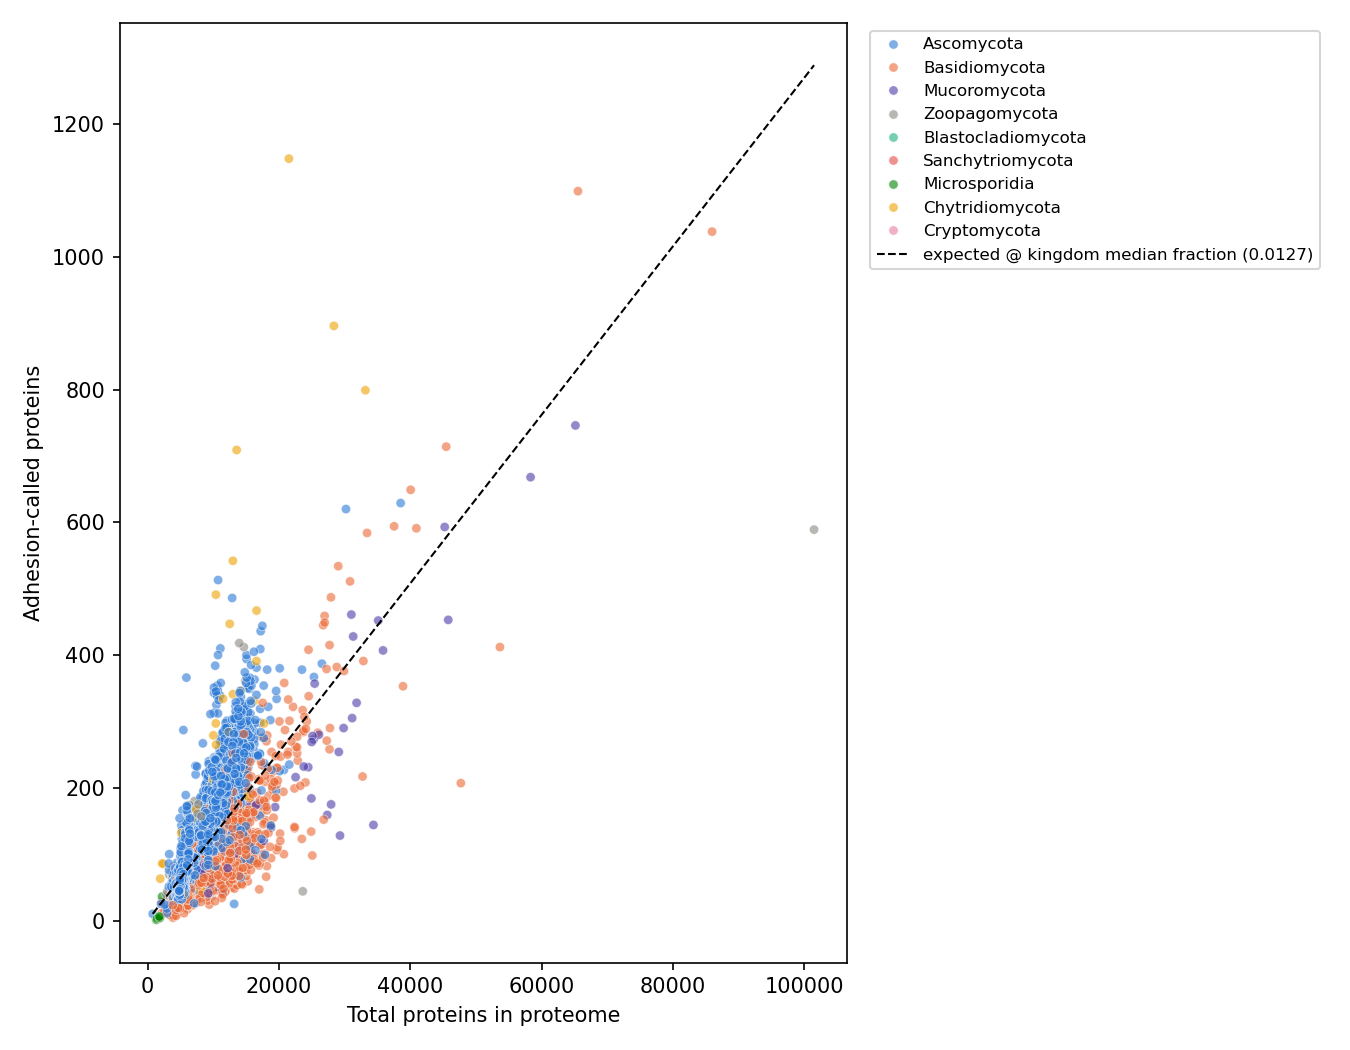
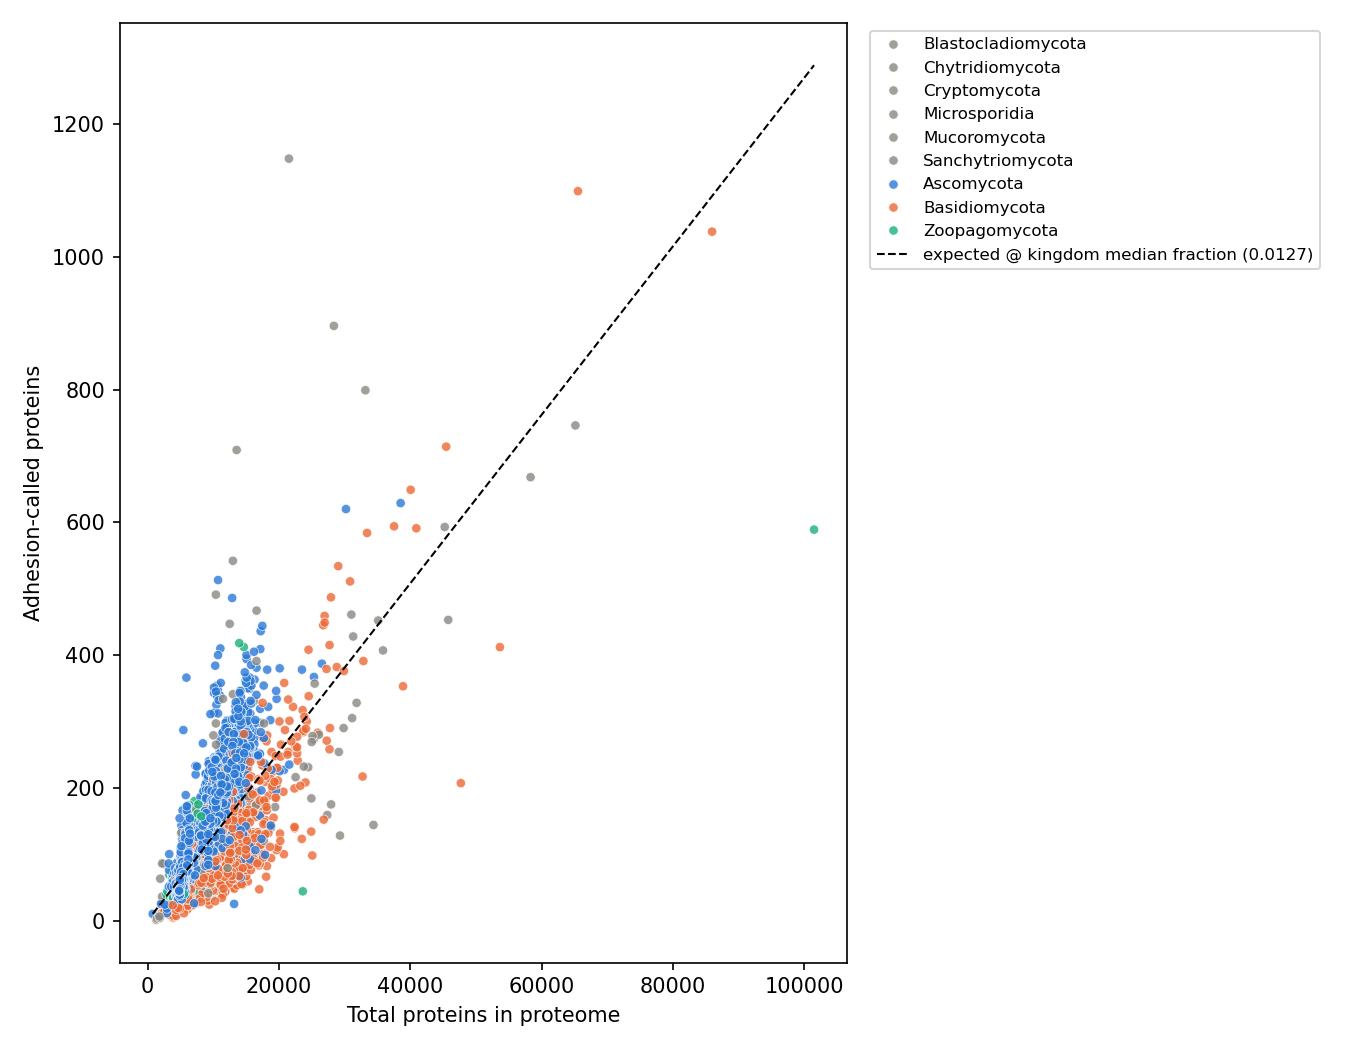
Fix scatter plot color legibility and add per-phylum facet view
The overview scatter used 8 categorical colors in a dense, overlapping
"all-pairs" layout, but the dataviz palette's own validation only clears
colorblind-safety/contrast floors for the first 3 slots in that context
- past 3, any color pairing can fail those floors, which is why the plot
read as visually muddy. Cap the overview scatter at the 3 largest phyla
by species count (validated all-pairs-safe colors), fold the rest into
muted gray plotted underneath so the highlights stay legible on top, and
bump point opacity from 0.6 to 0.8 for more vivid, readable markers.

Add scatter_proteome_vs_adhesion_by_phylum: a 3x3 small-multiples facet
grid, one panel per phylum with its own independent axis scale (so a
phylum with a much smaller/larger proteome-size range isn't squashed by
another's scale) and the same kingdom-median reference line repeated in
each panel for direct comparison - this is how the dataviz skill
prescribes showing >3-way categorical identity in a scatter context.

diff --git a/analysis/kingdom_survey/figures.py b/analysis/kingdom_survey/figures.py
@@ -10,11 +10,20 @@ palette (see .superpowers dataviz skill, references/palette.md):
 - Full-N groups use categorical slot 1 (blue); small-N groups use the
   muted axis/label gray, so "insufficient sample size" reads as a
   de-emphasized/warning-like state rather than just another hue.
-- The scatter plot's phylum coloring uses the fixed 8-slot categorical
-  order (assigned deterministically, never cycled/re-ordered per call);
-  a scatter plot is an "all-pairs" context under the skill's validator,
-  so any phylum beyond the first 8 folds into the muted gray "Other"
-  bucket rather than reusing/cycling hues.
+- The overview scatter plot is an "all-pairs" context (every point can
+  sit next to every other) — per the palette's own validation notes,
+  only the first THREE categorical slots clear the colorblind-safety
+  and contrast floors together in an all-pairs layout; a naive 8-slot
+  assignment (the previous approach) puts pairs on screen that fail
+  those floors, which is why the plot read as visually muddy. So the
+  scatter highlights only the 3 largest phyla by species count (the
+  ones that dominate the point cloud and where "which phylum is this"
+  matters most) and folds every other phylum into the muted gray
+  "Other" bucket, plotted underneath so the 3 highlighted colors stay
+  legible on top. Full 9-way phylum identity is instead shown via
+  `scatter_proteome_vs_adhesion_by_phylum`'s small-multiples facet grid
+  — one panel per phylum, a single consistent color, identity
+  established spatially (by panel) rather than by hue.
 """
 
 from pathlib import Path
@@ -91,28 +100,48 @@ def boxplot_by_rank(
     plt.close(fig)
 
 
-def _phylum_color_map(phyla: list) -> dict:
-    """Deterministic, fixed-order categorical color assignment.
+# Only the first 3 categorical slots clear the colorblind-safety and
+# contrast floors together in an "all-pairs" layout (see palette.md);
+# past 3, fold to "Other" or facet instead of cycling more hues in.
+_ALL_PAIRS_SAFE_SLOTS = 3
+_SCATTER_ALPHA = 0.8
 
-    A scatter plot is an "all-pairs" context (every point can sit next to
-    every other), so only the palette's first 8 validated categorical
-    slots are used; any phylum beyond that folds into a shared muted-gray
-    "Other" bucket instead of cycling colors.
+
+def _phylum_color_map(phylum_counts: "pd.Series") -> dict:
+    """Deterministic categorical color assignment, capped for an all-pairs
+    scatter: only the _ALL_PAIRS_SAFE_SLOTS largest-by-count phyla get a
+    distinct hue (in count-descending order); everything else shares the
+    muted "Other" gray. `phylum_counts` is a phylum -> species-count
+    Series computed once from the full dataset, so the assignment doesn't
+    repaint if a caller later filters a subset.
+
+    Returns an ordered dict with "Other" phyla first and highlighted
+    phyla last, so passing `hue_order=list(color_map)` to seaborn draws
+    the muted background first and the highlighted colors on top —
+    keeping them legible instead of buried under denser gray clusters.
     """
-    ordered_phyla = sorted(phyla)
-    color_map = {}
-    for i, p in enumerate(ordered_phyla):
-        color_map[p] = _CATEGORICAL_ORDER[i] if i < len(_CATEGORICAL_ORDER) else _OTHER_COLOR
+    ranked = phylum_counts.sort_values(ascending=False)
+    highlighted = list(ranked.index[:_ALL_PAIRS_SAFE_SLOTS])
+    other = list(ranked.index[_ALL_PAIRS_SAFE_SLOTS:])
+
+    color_map = dict.fromkeys(sorted(other), _OTHER_COLOR)
+    for i, p in enumerate(highlighted):
+        color_map[p] = _CATEGORICAL_ORDER[i]
     return color_map
 
 
 def scatter_proteome_vs_adhesion(df: pd.DataFrame, out_path: Path) -> None:
     """Scatter of total_proteins vs adhesion_count, colored by phylum, with a
     reference line for 'expected count under the kingdom-wide median
-    fraction' — separates genome-size effects from real enrichment."""
+    fraction' — separates genome-size effects from real enrichment.
+
+    Only the 3 largest phyla by species count get a distinct color (the
+    all-pairs-safe cap); the rest are muted gray "Other", plotted first
+    so the highlighted colors stay legible on top.
+    """
     sub = df[df["phylum"].notna()].copy()
     kingdom_median_fraction = sub["adhesion_fraction"].median()
-    color_map = _phylum_color_map(sub["phylum"].unique())
+    color_map = _phylum_color_map(sub["phylum"].value_counts())
 
     fig, ax = plt.subplots(figsize=(9, 7))
     sns.scatterplot(
@@ -120,8 +149,9 @@ def scatter_proteome_vs_adhesion(df: pd.DataFrame, out_path: Path) -> None:
         x="total_proteins",
         y="adhesion_count",
         hue="phylum",
+        hue_order=list(color_map),
         palette=color_map,
-        alpha=0.6,
+        alpha=_SCATTER_ALPHA,
         s=20,
         ax=ax,
         legend="brief",
@@ -138,6 +168,62 @@ def scatter_proteome_vs_adhesion(df: pd.DataFrame, out_path: Path) -> None:
     ax.set_xlabel("Total proteins in proteome")
     ax.set_ylabel("Adhesion-called proteins")
     ax.legend(bbox_to_anchor=(1.02, 1), loc="upper left", fontsize=8)
+    fig.tight_layout()
+    fig.savefig(out_path, dpi=150)
+    plt.close(fig)
+
+
+def scatter_proteome_vs_adhesion_by_phylum(
+    df: pd.DataFrame, out_path: Path, ncols: int = 3, nrows: int = 3
+) -> None:
+    """Small-multiples version of scatter_proteome_vs_adhesion: one panel
+    per phylum (up to ncols*nrows, ranked by species count), each with its
+    own independent x/y scale so a phylum with a much smaller/larger
+    proteome-size range isn't squashed by another phylum's scale. Every
+    panel uses the same single color (identity is established by the
+    panel title, not by hue) and repeats the kingdom-median reference
+    line so each phylum's position relative to the kingdom-wide
+    expectation is directly comparable across panels.
+    """
+    sub = df[df["phylum"].notna()].copy()
+    kingdom_median_fraction = sub["adhesion_fraction"].median()
+    counts = sub["phylum"].value_counts()
+    panels = list(counts.sort_values(ascending=False).index[: ncols * nrows])
+
+    fig, axes = plt.subplots(nrows, ncols, figsize=(4.2 * ncols, 3.6 * nrows))
+    axes = axes.flatten()
+
+    for i, ax in enumerate(axes):
+        if i >= len(panels):
+            ax.set_visible(False)
+            continue
+        phylum = panels[i]
+        pdata = sub[sub["phylum"] == phylum]
+        ax.scatter(
+            pdata["total_proteins"],
+            pdata["adhesion_count"],
+            color=_FULL_COLOR,
+            alpha=_SCATTER_ALPHA,
+            s=20,
+        )
+        x_range = [pdata["total_proteins"].min(), pdata["total_proteins"].max()]
+        ax.plot(
+            x_range,
+            [x * kingdom_median_fraction for x in x_range],
+            color="black",
+            linestyle="--",
+            linewidth=1,
+        )
+        ax.set_title(f"{phylum} (n={counts[phylum]})", fontsize=10)
+        ax.tick_params(labelsize=8)
+
+    fig.supxlabel("Total proteins in proteome")
+    fig.supylabel("Adhesion-called proteins")
+    fig.suptitle(
+        f"Proteome size vs. adhesion count by phylum (dashed line = kingdom "
+        f"median fraction {kingdom_median_fraction:.4f})",
+        fontsize=11,
+    )
     fig.tight_layout()
     fig.savefig(out_path, dpi=150)
     plt.close(fig)

diff --git a/tests/kingdom_survey/test_figures.py b/tests/kingdom_survey/test_figures.py
@@ -8,6 +8,7 @@ from figures import (
     probability_boxplot_by_rank,
     ranked_summary_table,
     scatter_proteome_vs_adhesion,
+    scatter_proteome_vs_adhesion_by_phylum,
 )
 from stats import aggregate_summary
 
@@ -57,3 +58,54 @@ def test_ranked_summary_table_is_markdown():
     md = ranked_summary_table(summary, "phylum")
     assert "PhylumX" in md
     assert "|" in md
+
+
+def _many_phyla_df(n_phyla=10):
+    rows = []
+    for p in range(n_phyla):
+        # descending species counts so phylum ranking is unambiguous
+        for i in range(n_phyla - p):
+            rows.append(
+                {
+                    "phylum": f"Phylum{p}",
+                    "adhesion_fraction": 0.1 + 0.01 * i,
+                    "adhesion_count": 10 + i,
+                    "total_proteins": 1000 + 50 * i,
+                    "mean_adhesion_prob": 0.6 + 0.01 * i,
+                }
+            )
+    return pd.DataFrame(rows)
+
+
+def test_scatter_by_phylum_creates_file(tmp_path):
+    df = _sample_df()
+    out = tmp_path / "facet.png"
+    scatter_proteome_vs_adhesion_by_phylum(df, out)
+    assert out.exists()
+    assert out.stat().st_size > 0
+
+
+def test_scatter_by_phylum_handles_more_phyla_than_grid(tmp_path):
+    """10 phyla into a 3x3 (9-panel) grid should truncate gracefully,
+    not raise — only the 9 largest-by-count phyla get a panel."""
+    df = _many_phyla_df(n_phyla=10)
+    out = tmp_path / "facet_overflow.png"
+    scatter_proteome_vs_adhesion_by_phylum(df, out, ncols=3, nrows=3)
+    assert out.exists()
+    assert out.stat().st_size > 0
+
+
+def test_phylum_color_map_caps_at_three_highlighted_slots():
+    from figures import _CATEGORICAL_ORDER, _OTHER_COLOR, _phylum_color_map
+
+    counts = pd.Series({"A": 100, "B": 80, "C": 60, "D": 40, "E": 20})
+    color_map = _phylum_color_map(counts)
+
+    highlighted = {"A", "B", "C"}
+    other = {"D", "E"}
+    for p in highlighted:
+        assert color_map[p] in _CATEGORICAL_ORDER[:3]
+    for p in other:
+        assert color_map[p] == _OTHER_COLOR
+    # highlighted phyla assigned distinct colors, in count-descending order
+    assert color_map["A"] != color_map["B"] != color_map["C"]

diff --git a/analysis/kingdom_survey/04_generate_report.py b/analysis/kingdom_survey/04_generate_report.py
@@ -109,6 +109,15 @@ figure itself.
 
 ![Proteome size vs adhesion count](figures/scatter_proteome_vs_adhesion.png)
 
+The scatter above highlights only the 3 largest phyla by species count
+(Ascomycota, Basidiomycota, Zoopagomycota) in distinct colors, with every
+other phylum folded into muted gray "Other" — a dense, overlapping
+all-pairs scatter cannot safely distinguish more than 3 categorical
+colors at once (see `figures.py`'s module docstring), so showing all 9
+phyla's own point clouds is left to the small-multiples version below.
+
+![Proteome size vs adhesion count by phylum](figures/scatter_proteome_vs_adhesion_by_phylum.png)
+
 ## By phylum
 
 Naive per-species test: H={phylum_omnibus['h_stat']:.3g}, p={phylum_omnibus['p_value']:.3g}, \

diff --git a/analysis/kingdom_survey/03_make_figures.py b/analysis/kingdom_survey/03_make_figures.py
@@ -11,6 +11,7 @@ from figures import (  # noqa: E402
     boxplot_by_rank,
     probability_boxplot_by_rank,
     scatter_proteome_vs_adhesion,
+    scatter_proteome_vs_adhesion_by_phylum,
 )
 
 TABLES_DIR = Path(__file__).resolve().parent / "tables"
@@ -37,6 +38,9 @@ def main() -> None:
         title="Adhesion fraction by order (top 20 by species count)",
     )
     scatter_proteome_vs_adhesion(df, FIGURES_DIR / "scatter_proteome_vs_adhesion.png")
+    scatter_proteome_vs_adhesion_by_phylum(
+        df, FIGURES_DIR / "scatter_proteome_vs_adhesion_by_phylum.png"
+    )
     probability_boxplot_by_rank(df, "phylum", FIGURES_DIR / "box_prob_by_phylum.png")
     probability_boxplot_by_rank(
         df,

diff --git a/analysis/kingdom_survey/REPORT.md b/analysis/kingdom_survey/REPORT.md
@@ -43,6 +43,15 @@ figure itself.
 
 ![Proteome size vs adhesion count](figures/scatter_proteome_vs_adhesion.png)
 
+The scatter above highlights only the 3 largest phyla by species count
+(Ascomycota, Basidiomycota, Zoopagomycota) in distinct colors, with every
+other phylum folded into muted gray "Other" — a dense, overlapping
+all-pairs scatter cannot safely distinguish more than 3 categorical
+colors at once (see `figures.py`'s module docstring), so showing all 9
+phyla's own point clouds is left to the small-multiples version below.
+
+![Proteome size vs adhesion count by phylum](figures/scatter_proteome_vs_adhesion_by_phylum.png)
+
 ## By phylum
 
 Naive per-species test: H=1.59e+03, p=0, epsilon-squared=0.274, n_groups=7.
